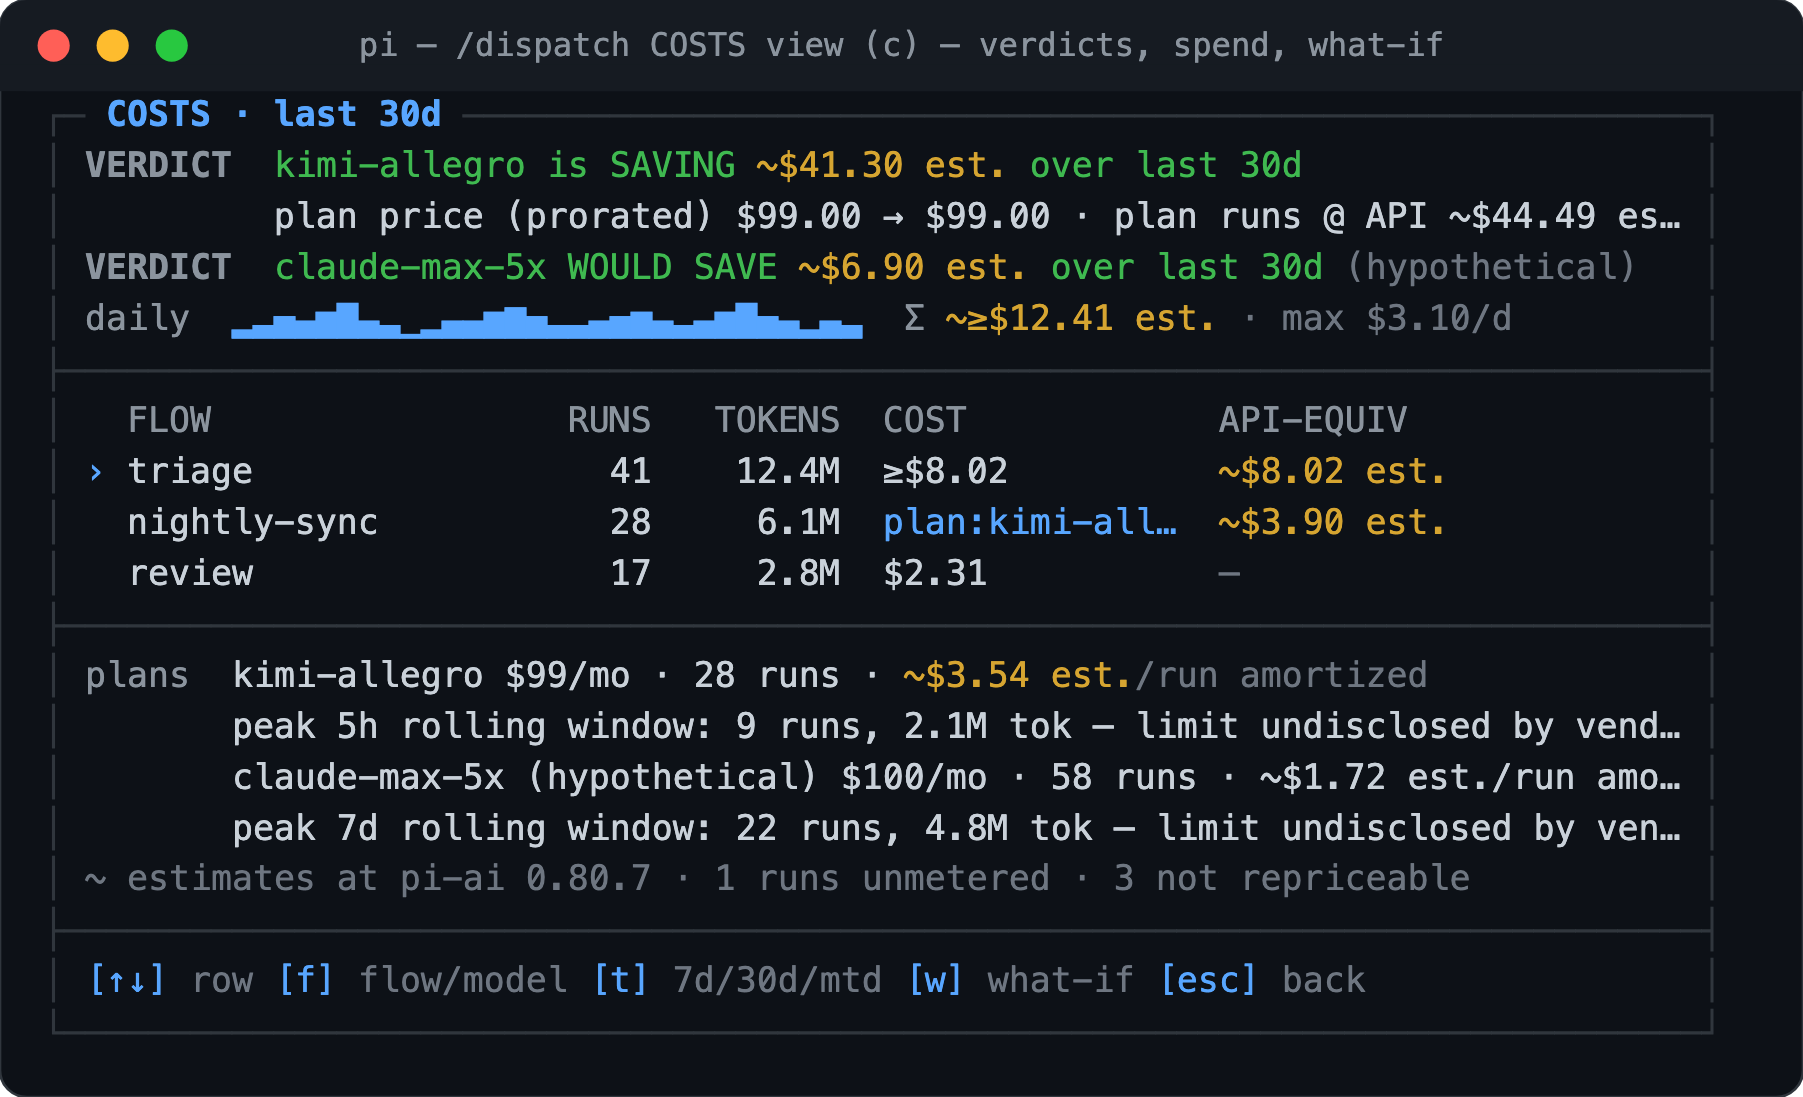
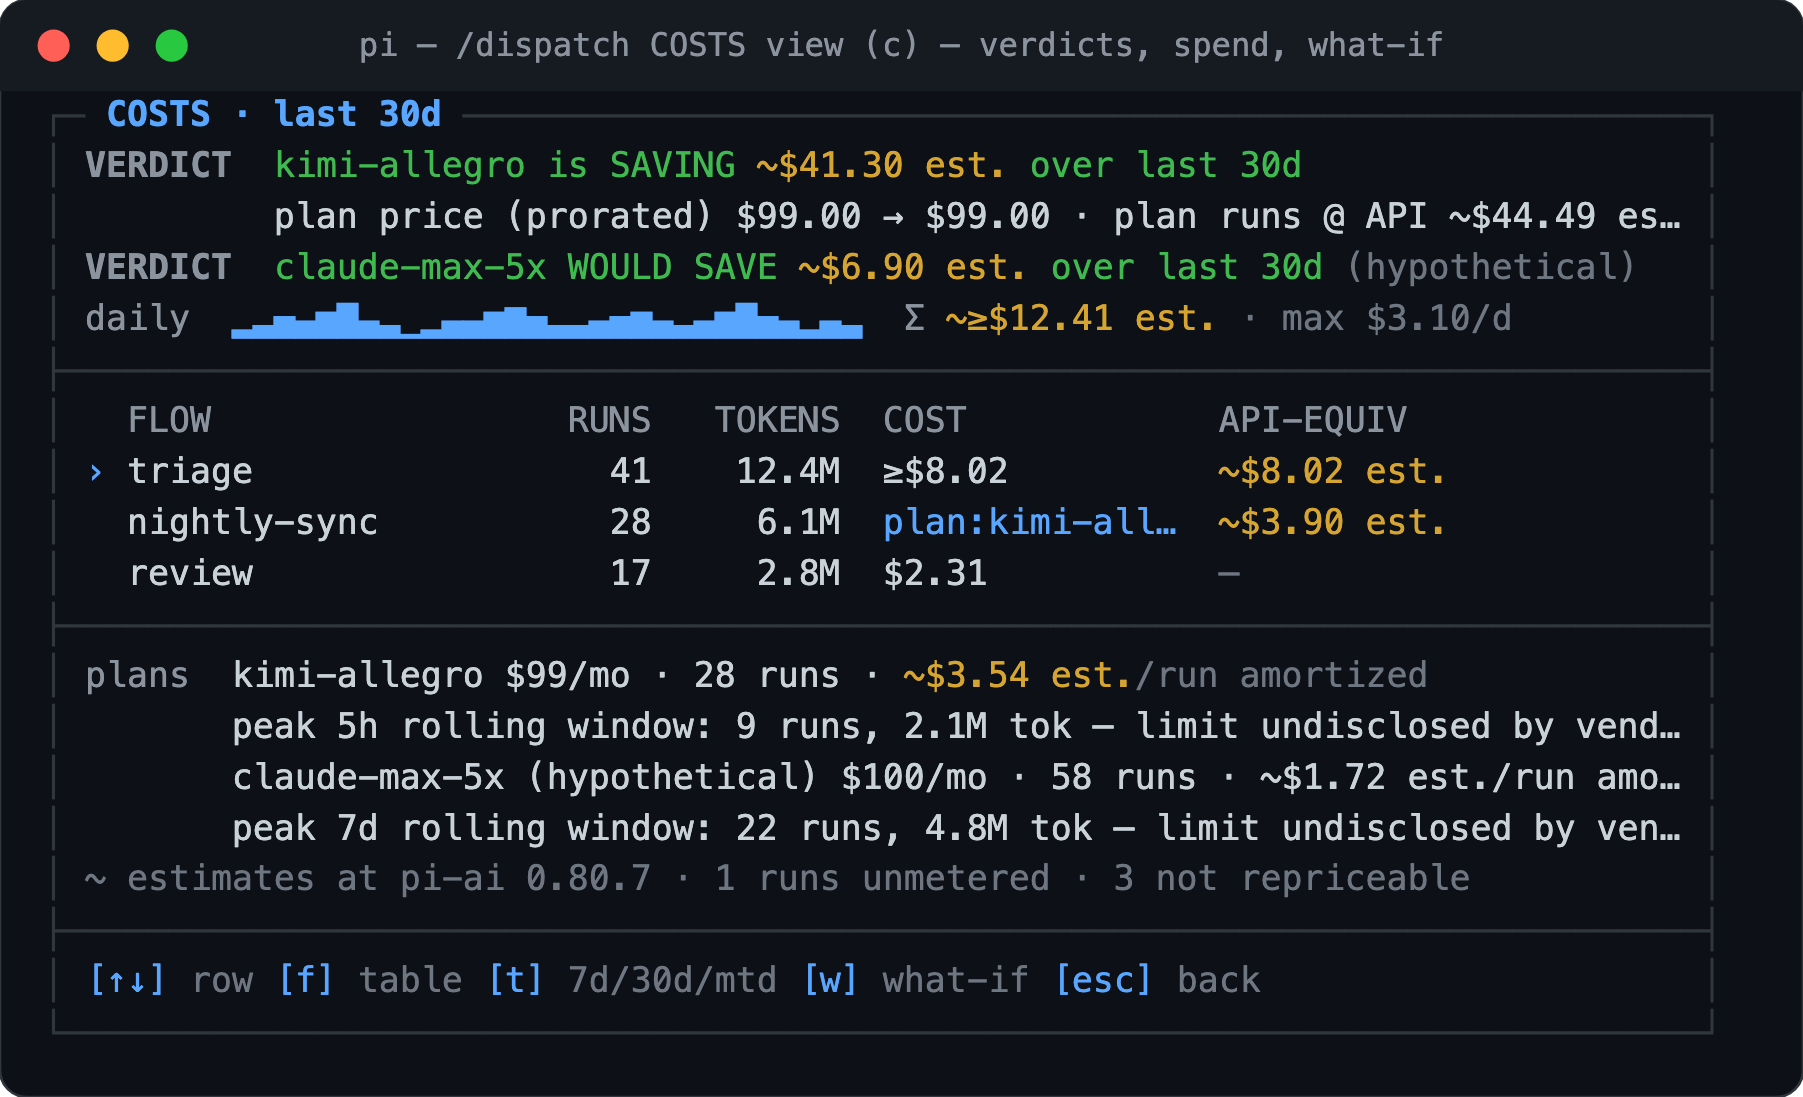
docs: the pitch for humans, the when-to-use section, and a fresh screenshot set (issue #175)
The last insights slice: both READMEs now open with what this is, why,
and when to use it, for a reader who has never run an agent, and the
images catch up with the shipped surface.

- Root README: the lead paragraph answers the context-free reader (an
  agent working while nobody watches, no surprise bills, no keys to
  the machine); a new 'When to use it' section gives four concrete
  recurring-loop scenarios and names the one case plain pi already
  covers; a design/observe/tune paragraph frames triggers+skills, the
  graph, and insights as one loop-engineering cycle and links the
  three docs; the insights page gets its screenshot in that section.
  The panel and graph sections gain the new facts (four cost tables,
  schedule and spend on trigger rows, /dispatch insights html), and
  the plain-commands list finally names graph and insights.
- admin/README (the npm-facing console page): same lead promise, the
  costs/graph bullets updated, a new one-page-for-both-questions
  bullet with the insights screenshot.
- Images: costs-view.svg footer says [f] table and the PNG is
  re-rendered at its exact prior dimensions (1803x1097, scale
  2.68303571); graph-view.png regenerated from a demo model so it
  shows the observed edge recency and the honesty counters (2480x1600,
  the prior dimensions); NEW insights-view.png from a populated
  insights.html. Changed images bump to ?v=0.11.0.

Both READMEs keep the no-dash-punctuation rule. Specs UNCHANGED,
[…]

Changed region(s): [[0.1864, 0.8678, 0.7454, 0.9298]]

diff --git a/README.md b/README.md
@@ -4,26 +4,30 @@
 
 # pi-dispatch
 
-**Run the [pi](https://github.com/earendil-works/pi) coding agent as a service. It lives in the background
-and, on a schedule or on an issue, comment or pull request from GitHub, GitLab, Forgejo or Azure DevOps,
-opens a container, runs your flow against the repo, and shuts the container down. Every job runs behind a
-durable queue, a spend cap, and a live admin panel you can turn the whole thing off from.**
+**Let a coding agent work on your repositories while you are not watching, without surprise bills and
+without giving it the keys to your machine.** pi-dispatch runs the
+[pi](https://github.com/earendil-works/pi) coding agent as a self hosted background service: on a
+schedule, or when an issue, comment or pull request arrives from GitHub, GitLab, Forgejo or Azure
+DevOps, it opens a locked down container, lets the agent do one job against the repo, records what it
+did and what it spent, and shuts the container down. A durable queue absorbs bursts, spend caps are
+checked before a single token is spent, and a live admin panel shows everything and can turn the whole
+thing off.
 
 ![The /dispatch dashboard overlay, theme-colored: live queue state, day/week/month spend meters plus a daily token counter, the unified triggers pane (cron, label, comment, pull_request; selectable and editable), scheduled pause windows, and the interactive runs list, in one framed TUI](docs/images/dispatch-dashboard.svg?v=0.5.0)
 
-![The COSTS view, verdict-first cost analytics: per-plan SAVING/LOSING verdicts against API rates, a daily spend sparkline, per-flow spend with API equivalents, subscription amortization with peak-window facts, and a what-if that re-prices a flow under another model, every estimate visibly marked](docs/images/costs-view.svg?v=0.5.0)
+![The COSTS view, verdict-first cost analytics: per-plan SAVING/LOSING verdicts against API rates, a daily spend sparkline, per-flow, per-trigger, per-model and per-repo spend, subscription amortization with peak-window facts, and a what-if that re-prices a flow under another model, every estimate visibly marked](docs/images/costs-view.svg?v=0.11.0)
 
 ![Transcript of /dispatch status, runs, and triggers: queue counts, the run-history table with per-job token and cost accounting, and the unified {on,run} triggers list](docs/images/dispatch-commands.svg?v=0.5.0)
 
-pi has no job queue, no concurrency control, no spend limit, and, by its own README, no permission
-system. pi-dispatch is exactly that missing operational layer, and nothing else:
+pi itself is a superb agent with no job queue, no concurrency control, no spend limit, and, by its own
+README, no permission system. pi-dispatch is exactly that missing operational layer, and nothing else:
 
 - **The container is the boundary.** Every job runs `--cap-drop=ALL`, non-root, ephemeral, with its
   instructions mounted read-only. That is pi's missing permission system, enforced by Docker.
 - **Spend is bounded before a container starts**: a per-job turn budget plus daily, weekly and monthly
   caps, checked before a single token is spent. And analyzed after: the panel's COSTS view shows spend
-  per flow, model and day, what a subscription actually saves, and what a flow would cost on another
-  model ([`docs/costs.md`](docs/costs.md)).
+  per flow, trigger, model, day and repo, what a subscription actually saves, and what a flow would
+  cost on another model ([`docs/costs.md`](docs/costs.md)).
 - **The image is yours to shape.** Bake a project's toolchain into [`image/Dockerfile`](image/Dockerfile);
   it ships Playwright and Chromium, so a flow can build a frontend, screenshot it, and iterate on the
   rendered result. Any trigger can name its own image with `run.image`
@@ -32,6 +36,29 @@ system. pi-dispatch is exactly that missing operational layer, and nothing else:
   same panel. The full trigger reference is the [next section](#triggers).
 - **Your project steers it** through pi's native `.pi/skills` and persona, from your committed files,
   over a small immutable safety floor the agent cannot remove.
+
+## When to use it
+
+Reach for pi-dispatch when the work is **recurring or event driven**, the kind of agent loop you want
+running without you:
+
+- a nightly job that triages new issues, updates a report, or tidies a backlog;
+- "label an issue `ai` and a fix PR appears", for your team's everyday small fixes;
+- a follow up loop that answers review comments on the PRs the agent itself opened;
+- several repos and several such loops, sharing one queue, one budget, one panel.
+
+For a one off interactive session on your own machine, plain pi is enough; pi-dispatch earns its keep
+the moment an agent runs while nobody is watching the terminal.
+
+Running agents this way is a design, observe, tune loop (some call it workflow or context engineering;
+here it is just how the pieces fit). You **design** loops as triggers plus committed skills; the
+**graph** shows the loops you actually built (what triggers what, what chained to what, where a skill's
+own text says it might loop, [`docs/graph.md`](docs/graph.md)); and **insights** prices them (what each
+trigger and flow costs, whether a subscription pays off, drawn as charts beside that same topology,
+[`docs/insights.md`](docs/insights.md)). One `/dispatch insights html` gives you the whole picture as a
+single file your browser opens from disk:
+
+![The insights page: KPI tiles, a plan verdict card, the daily spend chart, per-flow/per-trigger/per-model/per-repo breakdowns with plan-covered buckets drawn as chips instead of dollar bars, and the trigger/flow topology with spend badged onto the triggers that earned it](docs/images/insights-view.png?v=0.11.0)
 
 ## Quickstart
 
@@ -385,9 +412,11 @@ whole trigger and flow topology: what triggers what, what chained to what in the
 skill's own text says it might chain to, plus orphan skills and dangling triggers. It comes as a
 dashboard view (`g`), as plain text, and as `/dispatch graph html`, a self contained page your browser
 opens from disk (still no server and no port) with the topology drawn Node-RED style
-([`docs/graph.md`](docs/graph.md)).
+([`docs/graph.md`](docs/graph.md)). Trigger rows carry their schedule (next fire, or overdue) and
+their window spend, and `/dispatch insights html` combines this topology with the cost analytics on
+one page ([`docs/insights.md`](docs/insights.md), shown [above](#when-to-use-it)).
 
-![The trigger and flow graph as /dispatch graph html draws it: cron and forge triggers wired to their flows, an observed chain edge carrying its run count, a potential mention, a skill with its prose loop grouped inside it, cron re-arm loops with their schedules, an orphan skill dimmed, the forge group naming the repos its runs hit, and the legend stating the chain caps](docs/images/graph-view.png?v=0.9.1)
+![The trigger and flow graph as /dispatch graph html draws it: cron and forge triggers wired to their flows, an observed chain edge carrying its run count and recency, a potential mention, a skill with its prose loop grouped inside it, cron re-arm loops with their schedules, an orphan skill dimmed, the forge group naming the repos its runs hit, and the legend stating the chain caps and honesty counters](docs/images/graph-view.png?v=0.11.0)
 
 ```bash
 pi install npm:@edgehero/pi-dispatch-admin   # then, in pi:  /dispatch
@@ -407,12 +436,13 @@ banner: setup is offered when there is nothing, never over an outage.
 
 Inside the panel: `p`/`r` pause and resume the queue, arrows and `Enter` drill into triggers and runs,
 `a`/`e`/`x` add, edit and delete triggers (validated, atomic, reloaded live by both services), `s` edits
-a limit, `w` manages quiet hours, `c` opens the COSTS view. `Enter` on a run opens its full record:
+a limit, `w` manages quiet hours, `c` opens the COSTS view (its `f` key cycles spend by flow, model,
+trigger and repo). `Enter` on a run opens its full record:
 
 ![The RUN_DETAIL drill-in, a colored post-mortem of one run's PII-free record: outcome, target, timing with duration, turns/exit/budget slot, tokens and cost, and a chain line naming spawned children](docs/images/dispatch-run-detail.svg)
 
 The same surface exists as plain commands (`/dispatch status | runs | logs | budget | triggers | costs |
-run | pause | resume | set | unset`), all local, no model involvement.
+graph | insights | run | pause | resume | set | unset`), all local, no model involvement.
 
 ### Operating pi-dispatch from your AI
 

diff --git a/admin/README.md b/admin/README.md
@@ -4,7 +4,7 @@
 
 # pi-dispatch: run the pi coding agent as a self-hosted service
 
-**[pi](https://github.com/earendil-works/pi) is a superb coding agent, but it has no job queue, no spend limit, and, by its own README, no permission system.** pi-dispatch adds exactly those, so you can run pi unattended and safely: on a cron schedule, on your repo's issues and PRs, or straight from the CLI. Every job runs in an isolated container, with spend bounded before a single token is spent.
+**Let a coding agent work on your repositories while you are not watching, without surprise bills and without giving it the keys to your machine.** [pi](https://github.com/earendil-works/pi) is a superb coding agent, but it has no job queue, no spend limit, and, by its own README, no permission system. pi-dispatch adds exactly those, so you can run pi unattended and safely: on a cron schedule, on your repo's issues and PRs, or straight from the CLI. Every job runs in an isolated container, spend is bounded before a single token is spent, and everything the agent did (and what it cost) is recorded, graphed and priced for you.
 
 > This npm package, **`@edgehero/pi-dispatch-admin`**, is the **operator console** (a pi extension). The service itself is `@edgehero/pi-dispatch` (worker + CLI) and `@edgehero/pi-dispatch-receiver` (the webhook edge); the [main repo](https://github.com/edgehero/pi-dispatch) has the container image, docs, and SECURITY.md.
 
@@ -59,16 +59,22 @@ One command puts a live TUI over the whole deployment:
 </p>
 
 - **Status and spend.** Queue and worker state, day/week/month spend meters, a daily token counter, and a run-history table with per-job tokens and cost.
-- **Costs, analyzed honestly.** The COSTS view (`c`) shows spend per flow, model and day, what each declared subscription actually saves against API rates, and a what-if that re-prices a flow under another model. Every dollar carries its class: a plan-covered run never renders as $0.00, and an estimate is always marked as one.
+- **Costs, analyzed honestly.** The COSTS view (`c`) shows spend per flow, model, trigger, repo and day, what each declared subscription actually saves against API rates, and a what-if that re-prices a flow under another model. Every dollar carries its class: a plan-covered run never renders as $0.00, and an estimate is always marked as one.
 
 <p align="center">
-  <img src="https://raw.githubusercontent.com/edgehero/pi-dispatch/main/docs/images/costs-view.png?v=0.5.0" alt="The COSTS view: per-plan verdicts against API rates, a daily spend sparkline, per-flow spend with API equivalents, and subscription amortization" width="820">
+  <img src="https://raw.githubusercontent.com/edgehero/pi-dispatch/main/docs/images/costs-view.png?v=0.11.0" alt="The COSTS view: per-plan verdicts against API rates, a daily spend sparkline, spend by flow, trigger, model and repo, and subscription amortization" width="820">
 </p>
 
-- **The topology, as a graph.** The GRAPH view (`g`) and `/dispatch graph` show what triggers what, what chained to what in the recorded runs, and what a skill's own text says it might chain to, with orphan skills and dangling triggers flagged. `/dispatch graph html` draws the same picture Node-RED style in your browser, from one self contained file on disk: no server, no port, and the page reloads itself when you regenerate it.
+- **The topology, as a graph.** The GRAPH view (`g`) and `/dispatch graph` show what triggers what, what chained to what in the recorded runs, and what a skill's own text says it might chain to, with orphan skills and dangling triggers flagged, each cron's next fire or overdue state, and each trigger's window spend. `/dispatch graph html` draws the same picture Node-RED style in your browser, from one self contained file on disk: no server, no port, and the page reloads itself when you regenerate it.
 
 <p align="center">
-  <img src="https://raw.githubusercontent.com/edgehero/pi-dispatch/main/docs/images/graph-view.png?v=0.9.1" alt="The trigger and flow graph: triggers wired to their flows, an observed chain edge with its count, a potential mention, a skill with its prose loop grouped inside it, cron re-arm loops, an orphan skill dimmed, the forge group naming the repos its runs hit, and the legend stating the chain caps" width="820">
+  <img src="https://raw.githubusercontent.com/edgehero/pi-dispatch/main/docs/images/graph-view.png?v=0.11.0" alt="The trigger and flow graph: triggers wired to their flows, an observed chain edge with its count and recency, a potential mention, a skill with its prose loop grouped inside it, cron re-arm loops, an orphan skill dimmed, the forge group naming the repos its runs hit, and the legend stating the chain caps and honesty counters" width="820">
+</p>
+
+- **One page for both questions.** `/dispatch insights html` writes a single self contained page: the topology with spend badged onto its triggers, beside the cost analytics drawn as charts (daily spend, the four breakdowns, plan verdict cards). Design your agent loops as triggers and skills, see the loops you actually built, and see what each one costs, all in one place ([`docs/insights.md`](https://github.com/edgehero/pi-dispatch/blob/main/docs/insights.md)).
+
+<p align="center">
+  <img src="https://raw.githubusercontent.com/edgehero/pi-dispatch/main/docs/images/insights-view.png?v=0.11.0" alt="The insights page: KPI tiles, a plan verdict card, the daily spend chart, the four breakdowns with plan-covered buckets drawn as chips instead of dollar bars, and the topology with spend badges" width="820">
 </p>
 
 - **Triggers, editable live.** cron, label, comment and pull_request triggers with colored drill-ins showing what fires each one, what it runs, and its trust model. Added, edited and deleted without a restart. Triggers that run third-party code or a custom image are badged; opting in or out of either stays an edit to the reviewed `triggers.json`, which neither the console nor a model-callable tool will make for you.
